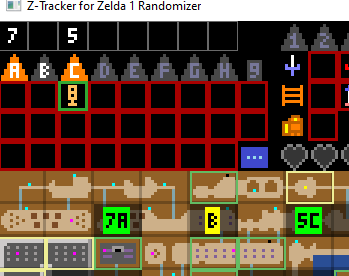
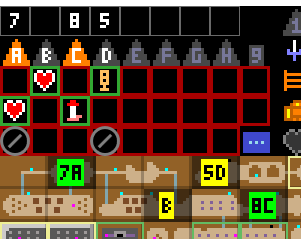
known dungeon numbers in HDN automatically mark off 3rd item when appropriate

diff --git a/doc/whats-new.md b/doc/whats-new.md
@@ -24,9 +24,11 @@ In the options menu, you can now choose BOARD instead of LEVEL for column header
 
 ![BOARD](screenshots/board-versus-level.png)
 
-### Hidden dungeon numbers shows known numbers on the overworld map
+### Improvements to ''Hidden Dungeon Numbers' support
 
-If the dungeon number is known, both the number and letter appear on the overworld map
+If the dungeon number is known, both the number and letter appear on the overworld map.
+
+If the dungeon number is known, and that dungeon only has two items rather than three, the third item box is automatically marked off with a 'ghostbusters' (circle/slash) icon.
 
 ![HDN numbers](screenshots/hidden-dungeon-numbers-known.png)
 
